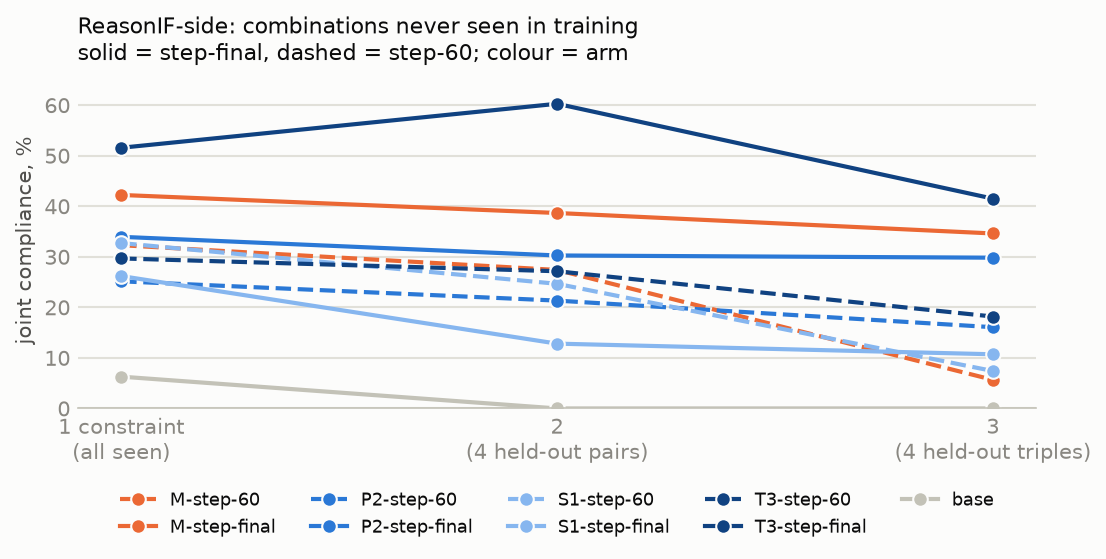
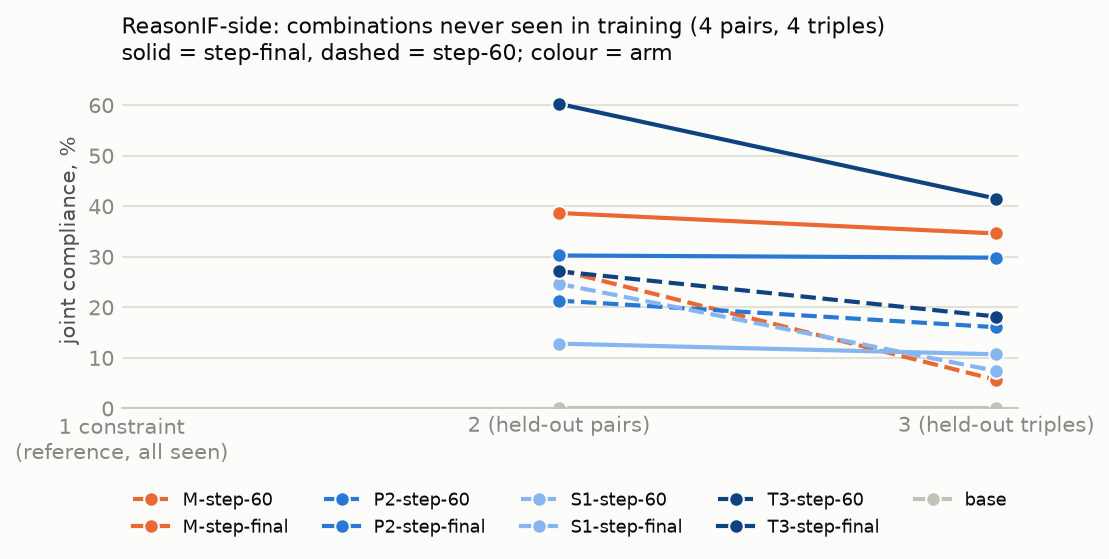
figures: seen-only, held-out-only, and T3 seen vs held-out

diff --git a/scripts/report_multi.py b/scripts/report_multi.py
@@ -66,14 +66,27 @@ for suite, name in (("reasonif_multi", "ReasonIF-side (in-distribution constrain
     ax.set_xticks([1, 2, 3]); ax.set_xticklabels(["1 constraint", "2", "3"]); ax.set_ylabel("joint compliance, %", color=INK2); ax.yaxis.grid(True, color=GRID, lw=1); ax.set_axisbelow(True); ax.tick_params(length=0); ax.spines["left"].set_visible(False)
     ax.legend(frameon=False, fontsize=8.5, ncol=5, loc="upper center", bbox_to_anchor=(0.5, -0.14)); ax.set_title(f"{name}: joint compliance vs number of constraints\nsolid = step-final (~915 examples), dashed = step-60 (240 examples); colour = arm", loc="left", fontsize=10.5, color=INK)
     ax.set_ylim(0, max(ax.get_ylim()[1], 1) * 1.05); fig.tight_layout(); fig.savefig(REPO / f"figures/multi_joint_{suite}.png", bbox_inches="tight"); plt.close(fig)
-# held-out-only figure for the ReasonIF side (unseen constraint combinations at k=2,3; singles shown for reference)
-fig, ax = plt.subplots(figsize=(7.5, 4), dpi=150)
-for l in labels:
-    pts = [(1, rate(l, "reasonif_multi", 1)[0]), (2, rate(l, "reasonif_multi", 2, True)[0]), (3, rate(l, "reasonif_multi", 3, True)[0])]; pts = [(x, 100 * y) for x, y in pts if y is not None]
-    if pts: ax.plot([p[0] for p in pts], [p[1] for p in pts], marker="o", ms=7, lw=2, color=ARMC.get(arm(l), INK2), ls="-" if "final" in l or l == "base" else "--", markeredgecolor=SURF, label=l)
-ax.set_xticks([1, 2, 3]); ax.set_xticklabels(["1 constraint\n(all seen)", "2\n(4 held-out pairs)", "3\n(4 held-out triples)"]); ax.set_ylabel("joint compliance, %", color=INK2); ax.yaxis.grid(True, color=GRID, lw=1); ax.set_axisbelow(True); ax.tick_params(length=0); ax.spines["left"].set_visible(False)
-ax.legend(frameon=False, fontsize=8.5, ncol=5, loc="upper center", bbox_to_anchor=(0.5, -0.2)); ax.set_ylim(0, max(ax.get_ylim()[1], 1) * 1.05)
-ax.set_title("ReasonIF-side: combinations never seen in training\nsolid = step-final, dashed = step-60; colour = arm", loc="left", fontsize=10.5, color=INK)
-fig.tight_layout(); fig.savefig(REPO / "figures/multi_joint_reasonif_heldout.png", bbox_inches="tight"); plt.close(fig)
-md.insert(md.index("\n## CoTControl-side (transfer): joint binary compliance (all constraints satisfied), % of gradeable rollouts\n") if "\n## CoTControl-side (transfer): joint binary compliance (all constraints satisfied), % of gradeable rollouts\n" in md else len(md), "\n![held-out combinations only](figures/multi_joint_reasonif_heldout.png)\n")
+# three ReasonIF-side figures: seen-only, held-out-only, and T3 seen vs held-out
+def lvl_fig(fname, title, xt, held_sel, only_labels=None, two_series=False):
+    fig, ax = plt.subplots(figsize=(7.5, 4), dpi=150)
+    for l in labels:
+        if only_labels and l not in only_labels: continue
+        series = [("seen", False, "-"), ("held-out", True, ":")] if two_series else [(None, held_sel, "-" if "final" in l or l == "base" else "--")]
+        for name_, held, ls in series:
+            pts = []
+            for lvl in (1, 2, 3):
+                if lvl == 1 and held is True: continue  # singles are all seen
+                r = rate(l, "reasonif_multi", lvl, (None if lvl == 1 else held))[0]
+                if r is not None: pts.append((lvl, 100 * r))
+            lab = f"{l} ({name_})" if name_ else l
+            col = ARMC.get(arm(l), INK2) if not two_series else ("#104281" if "final" in l else "#86b6ef")
+            ax.plot([p[0] for p in pts], [p[1] for p in pts], marker="o", ms=7, lw=2, color=col, ls=ls, markeredgecolor=SURF, label=lab)
+    ax.set_xticks([1, 2, 3]); ax.set_xticklabels(xt); ax.set_ylabel("joint compliance, %", color=INK2); ax.yaxis.grid(True, color=GRID, lw=1); ax.set_axisbelow(True); ax.tick_params(length=0); ax.spines["left"].set_visible(False)
+    ax.legend(frameon=False, fontsize=8.5, ncol=4 if two_series else 5, loc="upper center", bbox_to_anchor=(0.5, -0.2)); ax.set_ylim(0, max(ax.get_ylim()[1], 1) * 1.05)
+    ax.set_title(title, loc="left", fontsize=10.5, color=INK); fig.tight_layout(); fig.savefig(REPO / f"figures/{fname}", bbox_inches="tight"); plt.close(fig)
+lvl_fig("multi_joint_reasonif_seen.png", "ReasonIF-side: combinations that appeared in training (10 of 14 pairs, 12 of 16 triples)\nsolid = step-final, dashed = step-60; colour = arm", ["1 constraint", "2 (seen pairs)", "3 (seen triples)"], False)
+lvl_fig("multi_joint_reasonif_heldout.png", "ReasonIF-side: combinations never seen in training (4 pairs, 4 triples)\nsolid = step-final, dashed = step-60; colour = arm", ["1 constraint\n(reference, all seen)", "2 (held-out pairs)", "3 (held-out triples)"], True)
+lvl_fig("multi_joint_reasonif_T3_seen_vs_heldout.png", "Triples arm (T3): seen vs held-out combinations\nsolid = seen, dotted = held-out; dark = step-final, light = step-60", ["1 constraint", "2", "3"], None, only_labels=["T3-step-60", "T3-step-final"], two_series=True)
+for fn, cap in (("multi_joint_reasonif_seen.png", "seen combinations only"), ("multi_joint_reasonif_heldout.png", "held-out combinations only"), ("multi_joint_reasonif_T3_seen_vs_heldout.png", "T3: seen vs held-out")):
+    k = "\n## CoTControl-side (transfer): joint binary compliance (all constraints satisfied), % of gradeable rollouts\n"; md.insert(md.index(k) if k in md else len(md), f"\n![{cap}](figures/{fn})\n")
 (REPO / "MULTI_CONSTRAINT_RESULTS.md").write_text("\n".join(md), encoding="utf-8"); print("wrote MULTI_CONSTRAINT_RESULTS.md and figures for", labels)

diff --git a/MULTI_CONSTRAINT_FINDINGS.md b/MULTI_CONSTRAINT_FINDINGS.md
@@ -40,7 +40,17 @@ triples, never in any arm's training data, score as high as seen ones for P2, T3
 pairs vs 47 % seen; 42 vs 40 % on triples). S1 sits at 13 % and 11 %. The arms did not memorise combinations;
 they learned something that composes.
 
+Seen combinations only (10 of 14 pairs, 12 of 16 triples appeared in training):
+
+![Seen combinations only](figures/multi_joint_reasonif_seen.png)
+
+Held-out combinations only (4 pairs, 4 triples never in any arm's training):
+
 ![Held-out combinations only](figures/multi_joint_reasonif_heldout.png)
+
+The triples arm on its own, seen against held-out:
+
+![T3 seen vs held-out](figures/multi_joint_reasonif_T3_seen_vs_heldout.png)
 
 **3. Per-constraint compliance rises with the number of rules in the prompt — for the arms trained with several.**
 T3 at step-final: no_comma 45 % as a single, 64 % inside pairs, 77 % inside triples; end_checker 59 → 77 → 82 %;

diff --git a/MULTI_CONSTRAINT_RESULTS.md b/MULTI_CONSTRAINT_RESULTS.md
@@ -123,7 +123,13 @@
 | base | number_words | 20 | 10 | 6 |
 | base | reasoning_language | 11 | 19 | 17 |
 
+![seen combinations only](figures/multi_joint_reasonif_seen.png)
+
+
 ![held-out combinations only](figures/multi_joint_reasonif_heldout.png)
+
+
+![T3: seen vs held-out](figures/multi_joint_reasonif_T3_seen_vs_heldout.png)
 
 
 ## CoTControl-side (transfer): joint binary compliance (all constraints satisfied), % of gradeable rollouts
